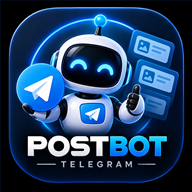
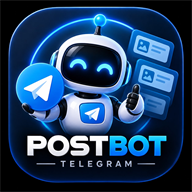
Panel 2 icono iPhone pantalla de inicio

diff --git a/seguridad_admin.js b/seguridad_admin.js
@@ -54,7 +54,7 @@ background:linear-gradient(90deg,#087fff,#b91de8);
 border:0;border-radius:11px;font-size:16px;font-weight:bold}
 .error{color:#ff9393}
 </style>
-<link rel="apple-touch-icon" sizes="512x512" href="/img/postbot-icono.png">
+<link rel="apple-touch-icon" sizes="180x180" href="/img/apple-touch-icon.png">
 <link rel="icon" type="image/png" href="/img/postbot-icono.png">
 <link rel="manifest" href="/manifest.webmanifest">
 </head>
